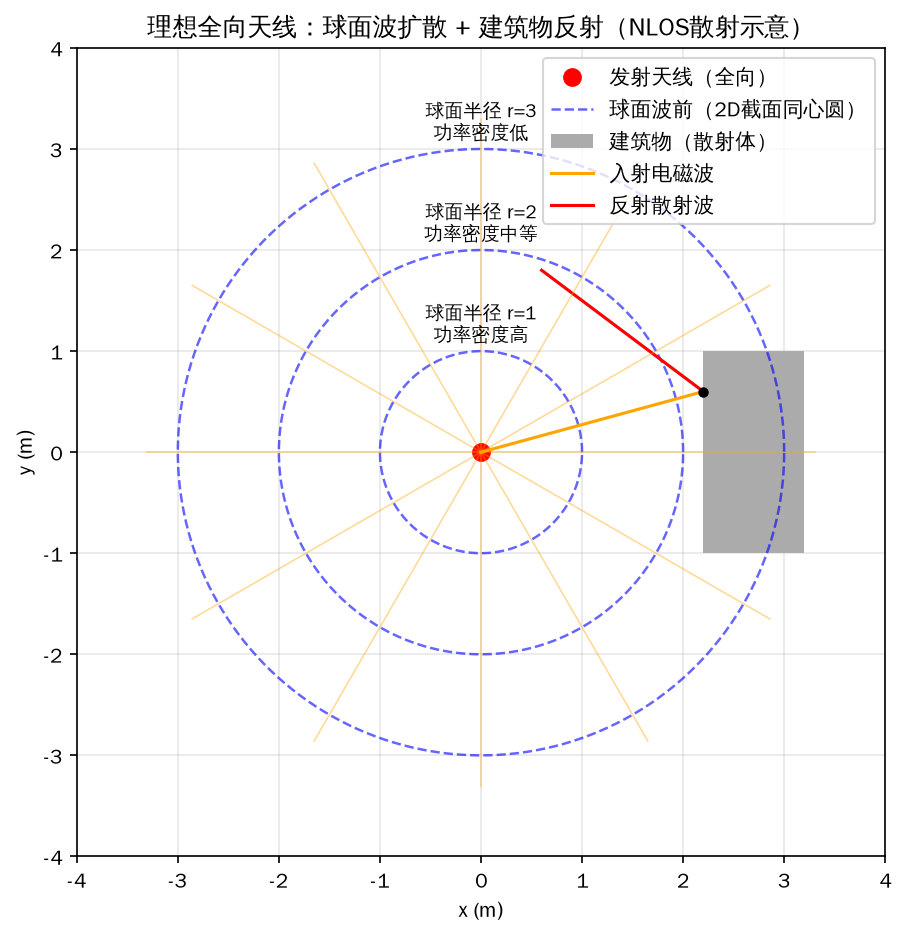
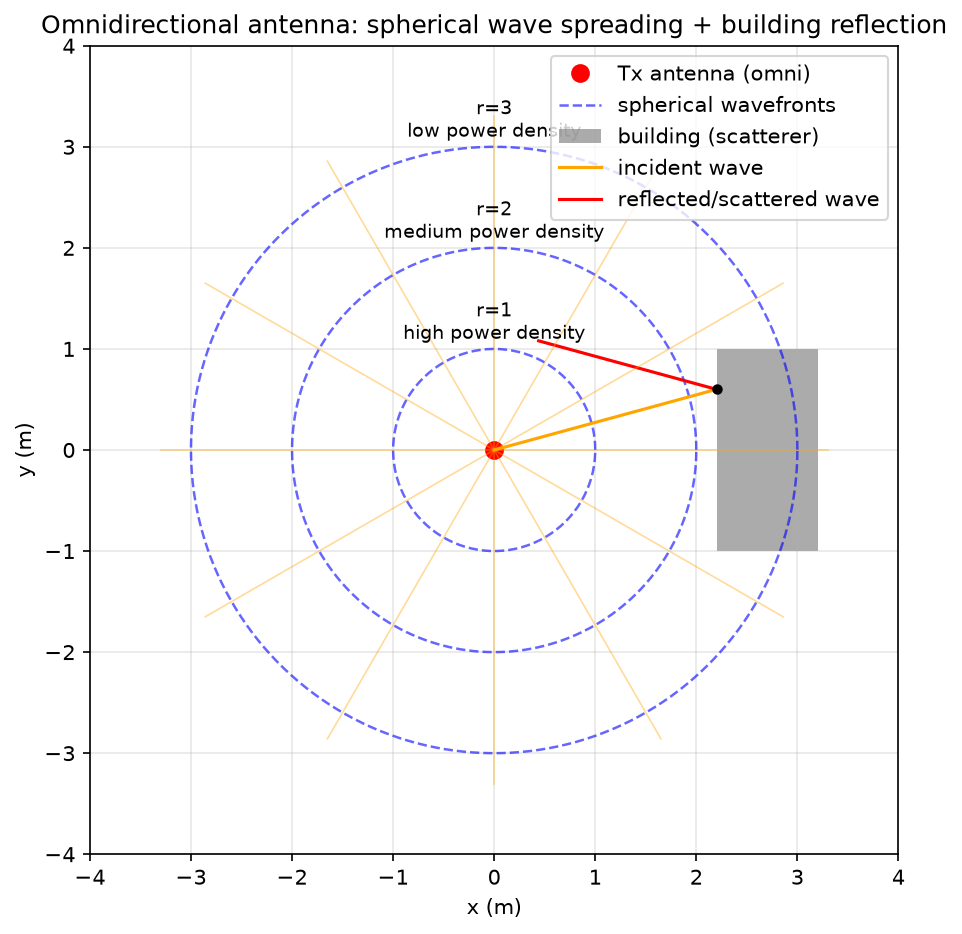
README 全量对齐项目实际状态 + 修正配置注释与传播示意图
README 删除无代码支撑的学习策略实验章节与过时 T=200 待办，基线数字改为
T=1000 实测（+9.9%/11.5%/21.0%，增益随速度上升），补充数据契约、
环境说明、figures 与 notebook 索引；config 注释与 ray_tracing 示意图同步更新。

diff --git a/figures/ray_tracing.py b/figures/ray_tracing.py
@@ -1,65 +1,86 @@
+r"""Spherical wave spreading + building reflection, physics illustration
+(static sketch, not a ray-tracing computation)
+
+Draws the physical picture behind the Friis derivation: an omnidirectional
+antenna spreads power as spherical waves (density ∝ 1/r²), and signals
+reflect/scatter off buildings to form NLOS multipath.
+
+Output (same directory as this file):
+    ray_tracing.png   150 dpi bitmap
+
+Usage::
+
+    python figures/ray_tracing.py
+"""
+
+import os
+
 import numpy as np
+import matplotlib
+matplotlib.use("Agg")  # headless rendering
 import matplotlib.pyplot as plt
+from matplotlib.patches import Rectangle
 
-plt.rcParams['font.sans-serif'] = ['WenQuanYi Zen Hei']
-plt.rcParams['axes.unicode_minus'] = False
+fig, ax = plt.subplots(figsize=(7, 7))
 
-fig, ax = plt.subplots(figsize=(7,7))
-
-# 发射源在原点
+# Tx source at origin
 source_x, source_y = 0, 0
-ax.plot(source_x, source_y, 'ro', markersize=8, label='发射天线（全向）')
+ax.plot(source_x, source_y, 'ro', markersize=8, label='Tx antenna (omni)')
 
-# ========== 1. 原来的球面波前（同心圆） ==========
+# ========== 1. Spherical wavefronts (concentric circles, 2D cross-section) ==========
 radii = [1, 2, 3]
 for r in radii:
-    theta = np.linspace(0, 2*np.pi, 200)
+    theta = np.linspace(0, 2 * np.pi, 200)
     x = source_x + r * np.cos(theta)
     y = source_y + r * np.sin(theta)
-    ax.plot(x, y, 'b--', alpha=0.6, linewidth=1.2, label='球面波前（2D截面同心圆）' if r==1 else "")
+    ax.plot(x, y, 'b--', alpha=0.6, linewidth=1.2,
+            label='spherical wavefronts' if r == 1 else "")
 
-# 标注功率密度
-ax.text(0, 1.1, f'球面半径 r={radii[0]}\n功率密度高', ha='center', fontsize=9)
-ax.text(0, 2.1, f'球面半径 r={radii[1]}\n功率密度中等', ha='center', fontsize=9)
-ax.text(0, 3.1, f'球面半径 r={radii[2]}\n功率密度低', ha='center', fontsize=9)
+# Power density annotations
+ax.text(0, 1.1, f'r={radii[0]}\nhigh power density', ha='center', fontsize=9)
+ax.text(0, 2.1, f'r={radii[1]}\nmedium power density', ha='center', fontsize=9)
+ax.text(0, 3.1, f'r={radii[2]}\nlow power density', ha='center', fontsize=9)
 
-# ========== 2. 画建筑物（灰色矩形障碍物） ==========
-# 矩形: x从2.2~3.2, y从-1.0~1.0
+# ========== 2. Building (rectangular obstacle/scatterer) ==========
 building_x1, building_x2 = 2.2, 3.2
 building_y1, building_y2 = -1.0, 1.0
-from matplotlib.patches import Rectangle
-building = Rectangle((building_x1, building_y1), 
-                     width=building_x2-building_x1, 
-                     height=building_y2-building_y1,
-                     facecolor='#888888', alpha=0.7, label='建筑物（散射体）')
+building = Rectangle((building_x1, building_y1),
+                     width=building_x2 - building_x1,
+                     height=building_y2 - building_y1,
+                     facecolor='#888888', alpha=0.7, label='building (scatterer)')
 ax.add_patch(building)
 
-# ========== 3. 入射射线 + 反射射线 ==========
-# 入射：从原点打到墙面的撞击点
+# ========== 3. Incident + reflected ray (specular: angle in = angle out) ==========
+# Vertical wall at x=2.2: incident (dx, dy) reflects to (-dx, dy)
 hit_x = 2.2
 hit_y = 0.6
-# 入射光线
-ax.plot([source_x, hit_x], [source_y, hit_y], color='orange', lw=1.5, label="入射电磁波")
-# 反射光线（镜面反射示意）
-reflect_end_x = hit_x - 1.6
-reflect_end_y = hit_y + 1.2
-ax.plot([hit_x, reflect_end_x], [hit_y, reflect_end_y], color='red', lw=1.5, label="反射散射波")
+inc_dir = np.array([hit_x - source_x, hit_y - source_y])   # (2.2, 0.6)
+ax.plot([source_x, hit_x], [source_y, hit_y],
+        color='orange', lw=1.5, label="incident wave")
+# Reflected ray: x-component flipped, y kept; length = 0.8 × incident
+ref_dir = np.array([-inc_dir[0], inc_dir[1]])
+ref_end = np.array([hit_x, hit_y]) + 0.8 * ref_dir
+ax.plot([hit_x, ref_end[0]], [hit_y, ref_end[1]],
+        color='red', lw=1.5, label="reflected/scattered wave")
 
-# 标记撞击点
+# Hit point marker
 ax.plot(hit_x, hit_y, 'ko', markersize=4)
 
-# ========== 4. 其他径向射线 ==========
-angles = np.linspace(0, 2*np.pi, 12, endpoint=False)
+# ========== 4. Other radial rays ==========
+angles = np.linspace(0, 2 * np.pi, 12, endpoint=False)
 for ang in angles:
-    ax.plot([0, 3.3*np.cos(ang)], [0, 3.3*np.sin(ang)], color='orange', alpha=0.4, linewidth=0.8)
+    ax.plot([0, 3.3 * np.cos(ang)], [0, 3.3 * np.sin(ang)],
+            color='orange', alpha=0.4, linewidth=0.8)
 
-ax.set_xlim(-4,4)
-ax.set_ylim(-4,4)
+ax.set_xlim(-4, 4)
+ax.set_ylim(-4, 4)
 ax.set_aspect('equal')
 ax.set_xlabel('x (m)')
 ax.set_ylabel('y (m)')
-ax.set_title('理想全向天线：球面波扩散 + 建筑物反射（NLOS散射示意）')
+ax.set_title('Omnidirectional antenna: spherical wave spreading + building reflection')
 ax.legend(loc="upper right")
 ax.grid(alpha=0.3)
-plt.savefig('radio_scene.png', dpi=150, bbox_inches='tight')
-plt.show()
+# 保存到本脚本所在目录（与运行时 cwd 无关）
+out = os.path.join(os.path.dirname(os.path.abspath(__file__)), "ray_tracing.png")
+plt.savefig(out, dpi=150, bbox_inches='tight')
+print(f"saved: {out}")

diff --git a/config.py b/config.py
@@ -28,8 +28,9 @@ class SceneConfig:
     shadow_sigma_db: float = 4.0     # 阴影衰落 std [dB]（每条轨迹内恒定）
 
     # ---- 功率 / 速率 ----
-    # 选 noise=1e-8, avg=0.05, p_max=0.2：中位 SNR≈-2dB（信道受限区），
-    # 注水相对均匀分配增益约 +20%，三组对比有明显区分度。
+    # 选 noise=1e-8, avg=0.05, p_max=0.2：中位 SNR≈0dB（信道受限区），
+    # 注水相对均匀分配增益实测 +9.9% / +11.5% / +21.0%（30/120/350 km/h，
+    # 每速度 100 条测试轨迹），三档速度有明显区分度。
     bandwidth_hz: float = 10.0e6     # 带宽 [Hz]
     noise_power: float = 1.0e-8      # 等效接收噪声功率 [W]
     p_max: float = 0.2               # 单时隙最大发射功率 [W] 峰值约束

diff --git a/baselines/power_alloc.py b/baselines/power_alloc.py
@@ -100,7 +100,7 @@ def waterfilling_closed_form(
     p_max: float,
     noise_power: float,
 ) -> np.ndarray:
-    """闭式二分注水（仅用于交叉验证 cvxpy 结果）。
+    """闭式二分注水：主求解器（waterfilling_cvxpy 的结果仅用于交叉验证本函数）。
 
     p_t = min(p_max, max(0, 1/μ - N/g_t))，μ 由 Σ p_t = avg_power·T 确定。
     """
